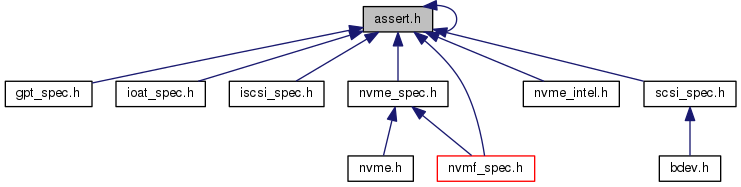
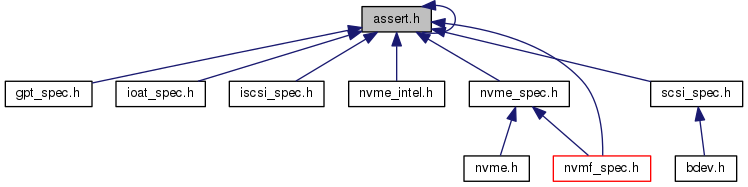
gh-pages/doc: update to 6c56bfa

diff --git a/doc/assert_8h.html b/doc/assert_8h.html
@@ -105,12 +105,12 @@ This graph shows which files directly or indirectly include this file:</div>
 <area shape="rect" id="node2" href="gpt__spec_8h.html" title="GUID Partition Table (GPT) specification definitions. " alt="" coords="5,81,92,107"/>
 <area shape="rect" id="node3" href="ioat__spec_8h.html" title="I/OAT specification definitions. " alt="" coords="116,81,205,107"/>
 <area shape="rect" id="node4" href="iscsi__spec_8h.html" title="iSCSI specification definitions " alt="" coords="229,81,324,107"/>
-<area shape="rect" id="node5" href="nvme__spec_8h.html" title="NVMe specification definitions. " alt="" coords="348,81,448,107"/>
-<area shape="rect" id="node7" href="nvmf__spec_8h.html" title="NVMe over Fabrics specification definitions. " alt="" coords="437,155,535,182"/>
-<area shape="rect" id="node8" href="nvme__intel_8h.html" title="Intel NVMe vendor&#45;specific definitions. " alt="" coords="523,81,619,107"/>
-<area shape="rect" id="node9" href="scsi__spec_8h.html" title="SCSI specification definitions. " alt="" coords="644,81,736,107"/>
-<area shape="rect" id="node6" href="nvme_8h.html" title="NVMe driver public API. " alt="" coords="348,155,413,182"/>
-<area shape="rect" id="node10" href="bdev_8h.html" title="Block device abstraction layer. " alt="" coords="659,155,721,182"/>
+<area shape="rect" id="node5" href="nvme__intel_8h.html" title="Intel NVMe vendor&#45;specific definitions. " alt="" coords="349,81,445,107"/>
+<area shape="rect" id="node6" href="nvme__spec_8h.html" title="NVMe specification definitions. " alt="" coords="469,81,569,107"/>
+<area shape="rect" id="node8" href="nvmf__spec_8h.html" title="NVMe over Fabrics specification definitions. " alt="" coords="553,155,651,182"/>
+<area shape="rect" id="node9" href="scsi__spec_8h.html" title="SCSI specification definitions. " alt="" coords="651,81,743,107"/>
+<area shape="rect" id="node7" href="nvme_8h.html" title="NVMe driver public API. " alt="" coords="464,155,529,182"/>
+<area shape="rect" id="node10" href="bdev_8h.html" title="Block device abstraction layer. " alt="" coords="675,155,737,182"/>
 </map>
 </div>
 </div><a name="details" id="details"></a><h2 class="groupheader">Detailed Description</h2>
